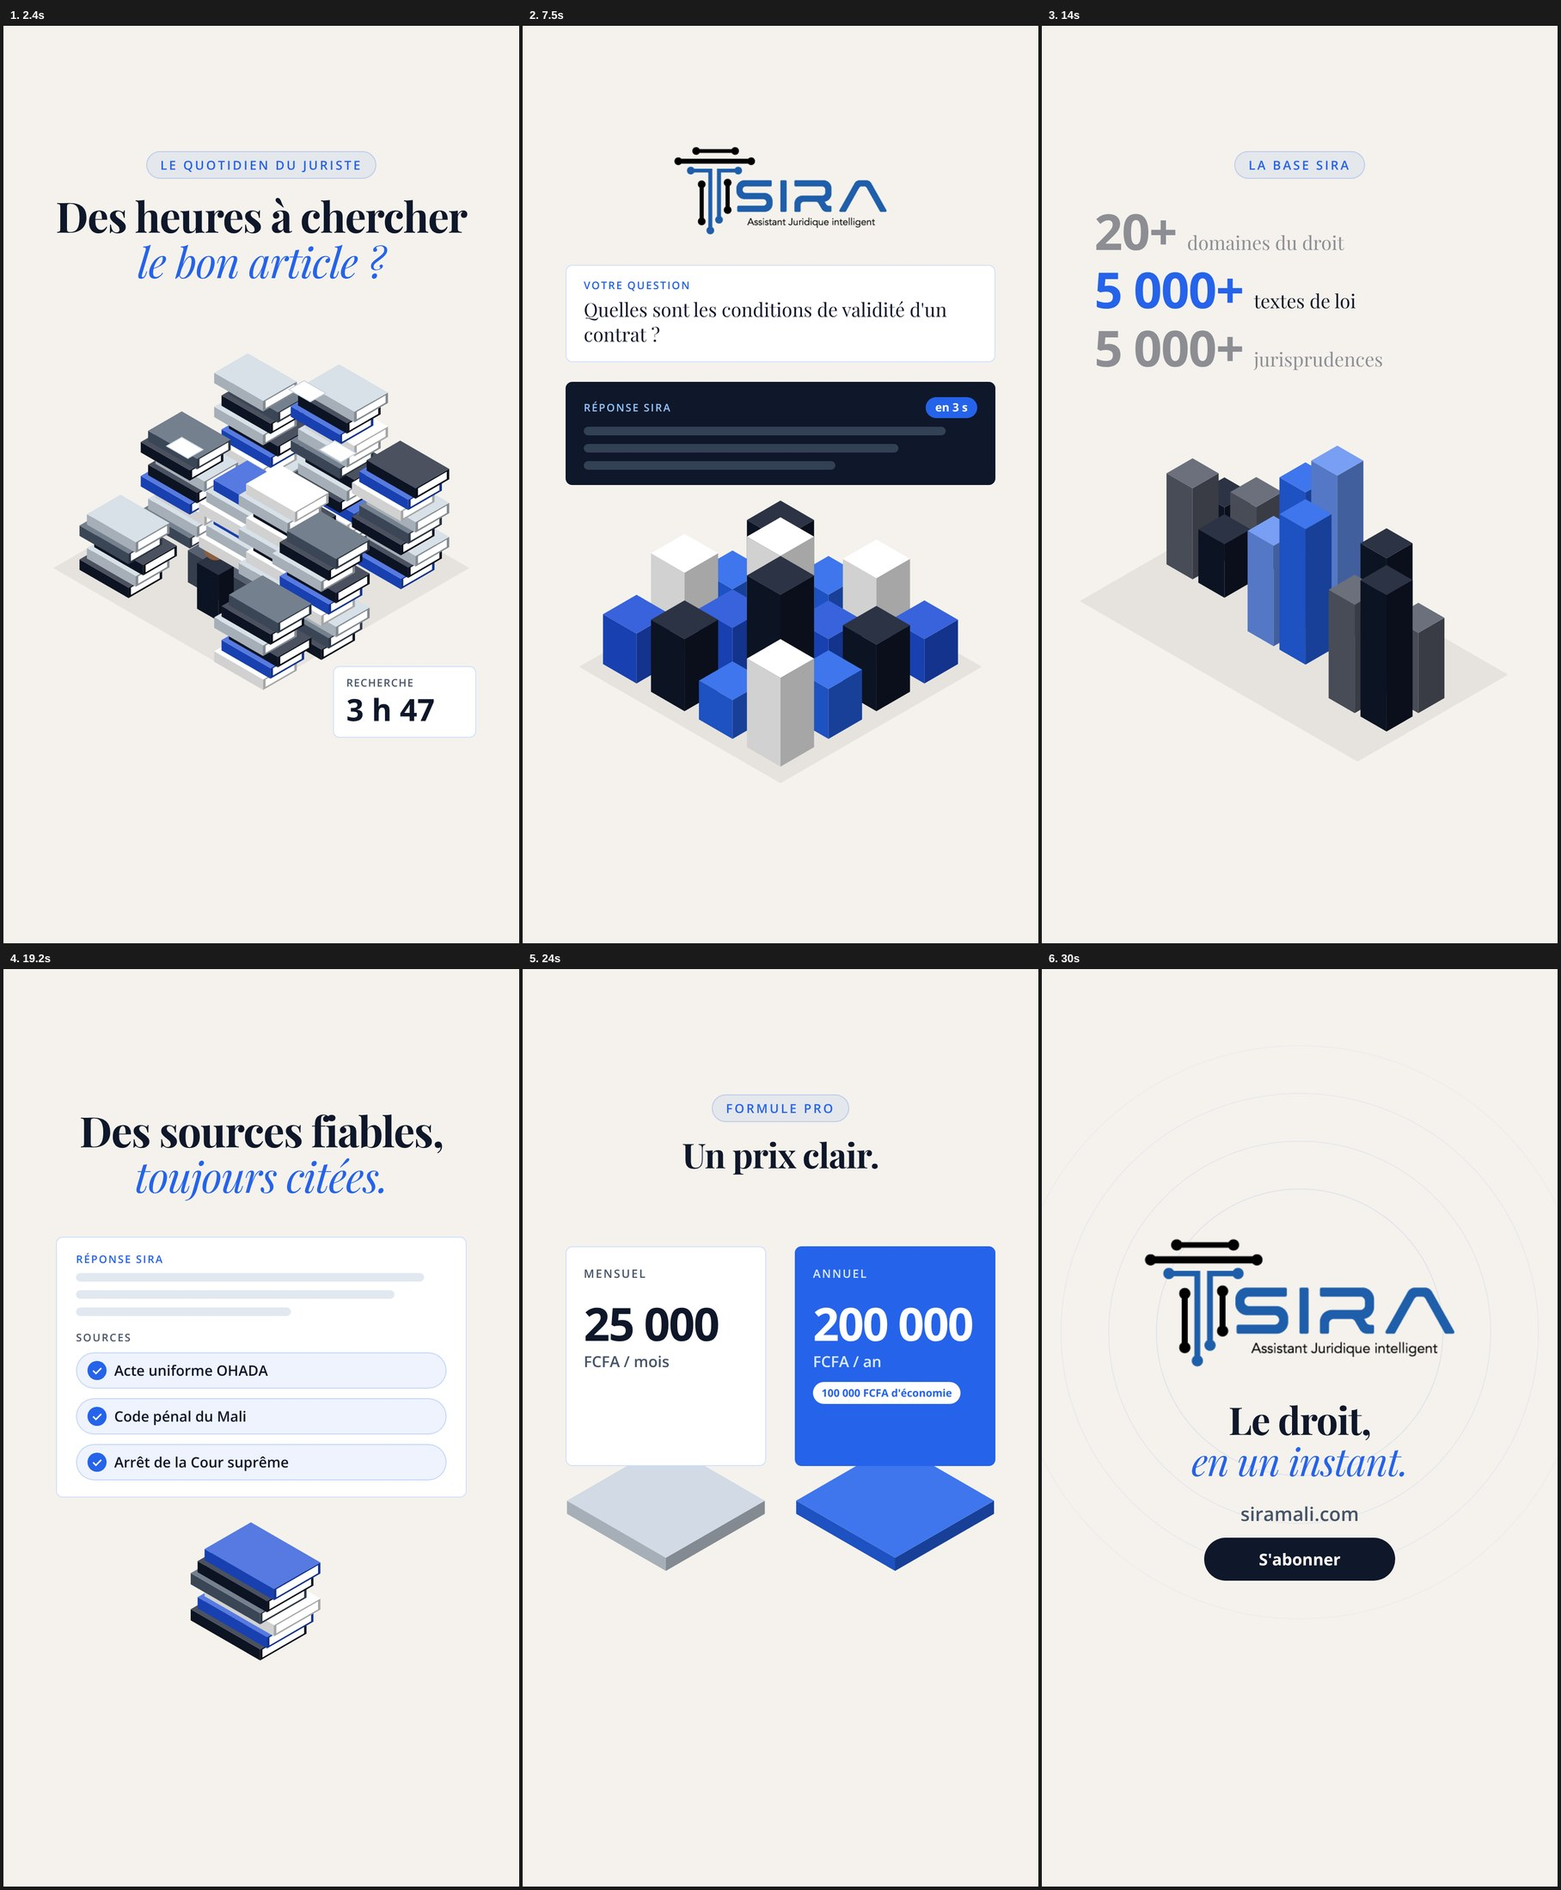
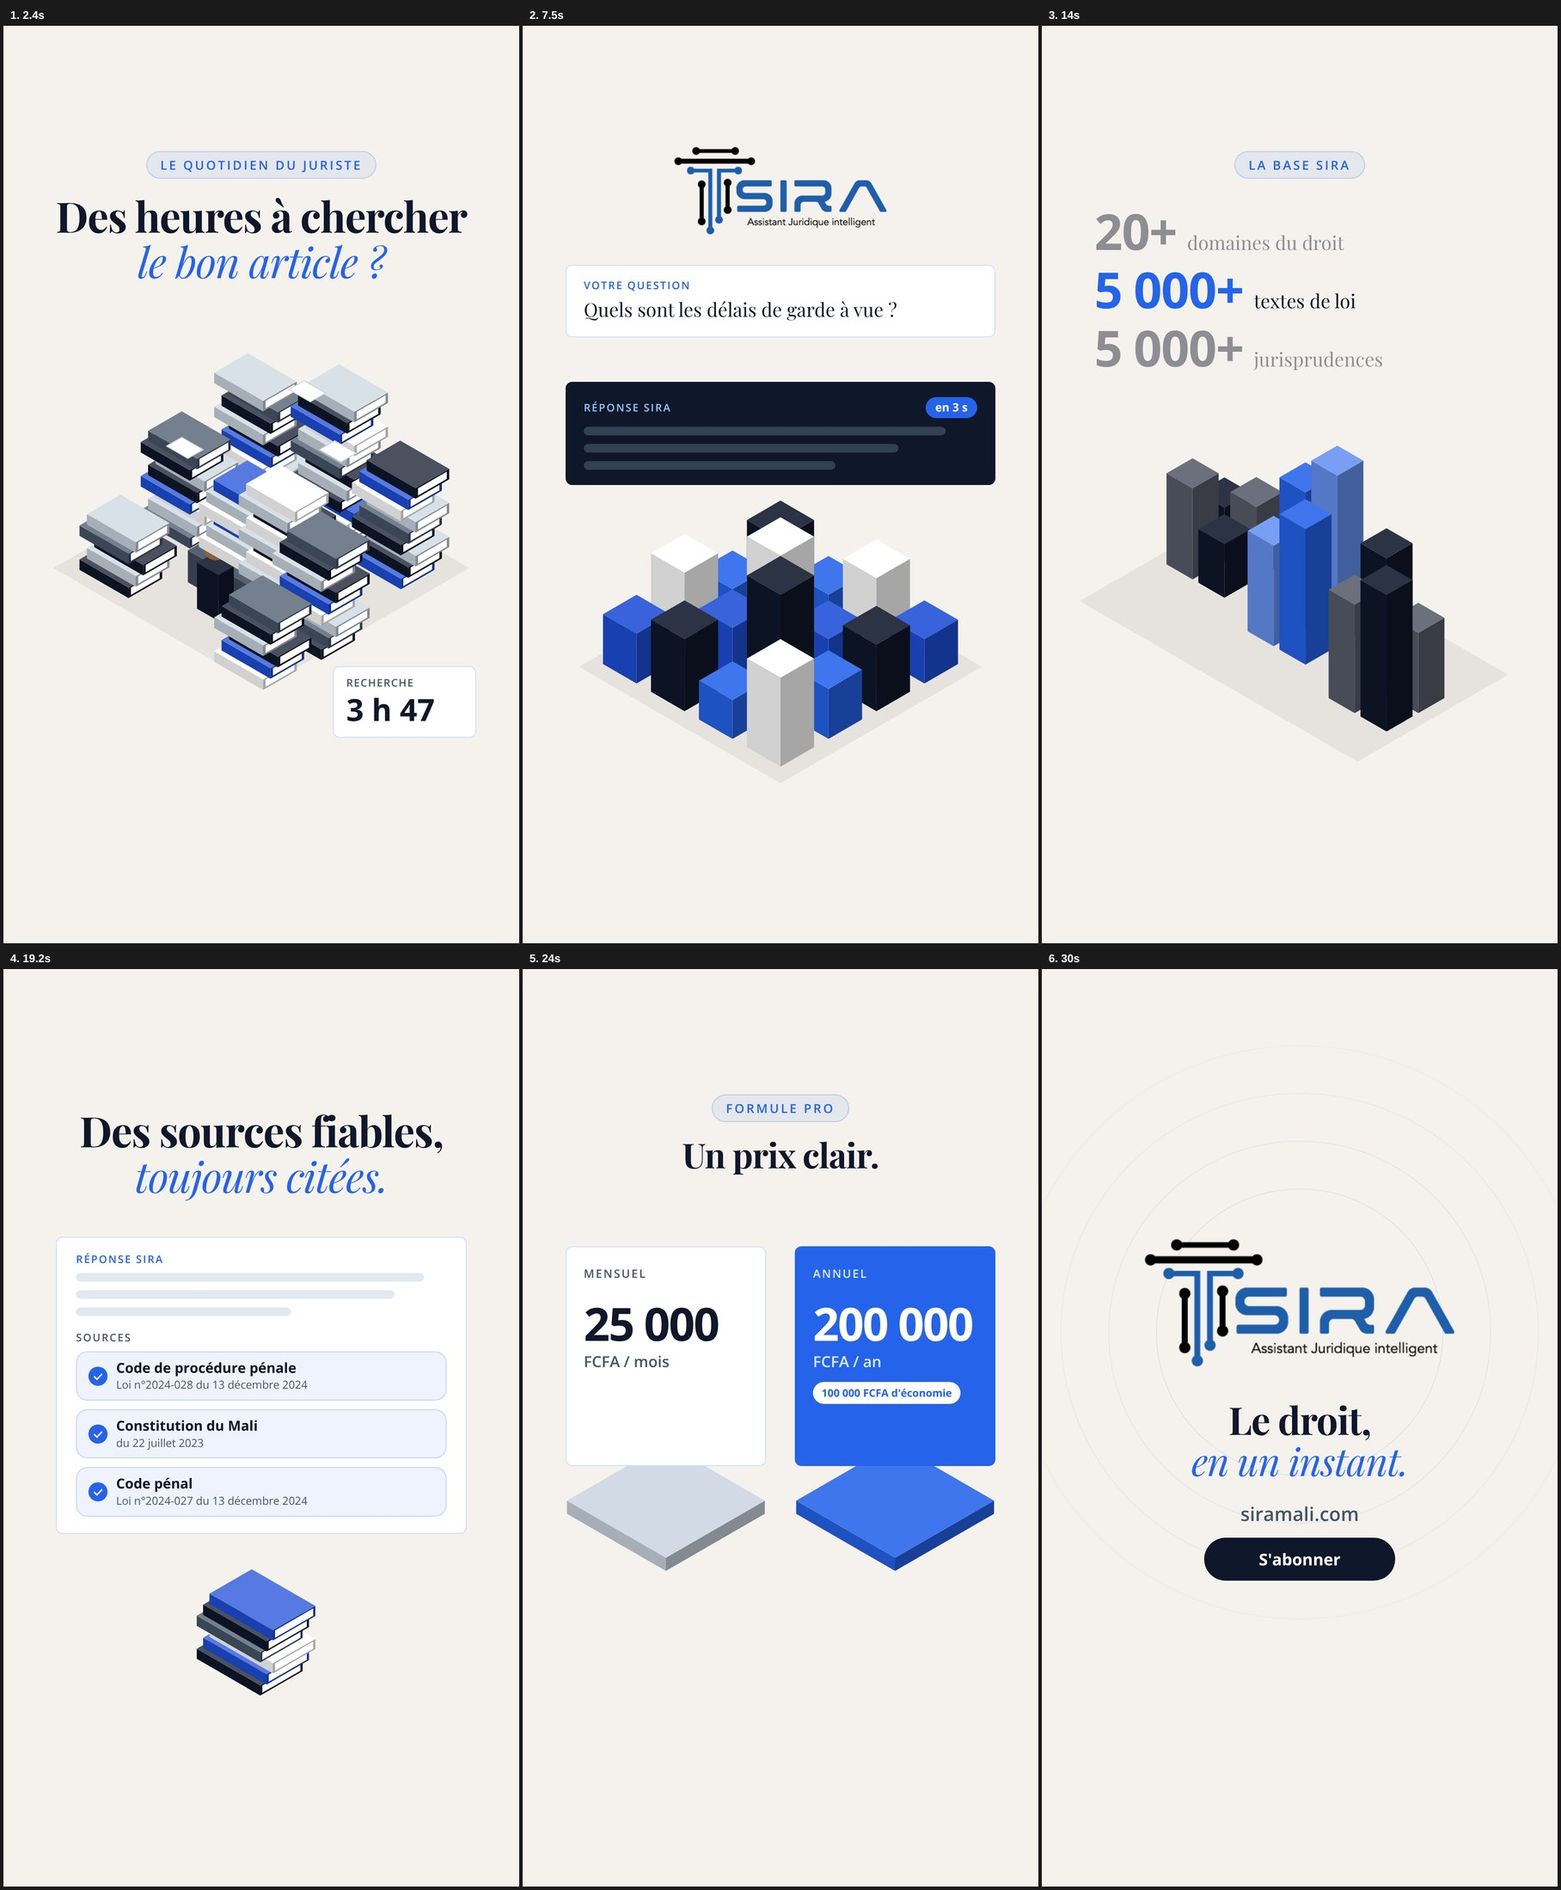
Vidéo SIRA : question garde à vue et sources réelles (plans 02 et 04)
Claude-Session: https://claude.ai/code/session_01MDgrk3vJ4pFzp3No1DkxgC

Changed region(s): [[0.0308, 0.7116, 0.2159, 0.8972], [0.4009, 0.1547, 0.5859, 0.1856]]

diff --git a/videos/sira-promo/compositions/frames/04-sources.html b/videos/sira-promo/compositions/frames/04-sources.html
@@ -22,30 +22,30 @@
         <div class="bg clip" data-start="0" data-duration="3.2"></div>
         <div class="layer clip" data-start="0" data-duration="3.2">
 
-          <svg class="art" viewBox="0 0 1080 1920" xmlns="http://www.w3.org/2000/svg"><polygon points="392.1,1363.0 537.6,1447.0 537.6,1423.8 392.1,1339.8" fill="#0C1322"/>
-<polygon points="634.6,1391.0 537.6,1447.0 537.6,1423.8 634.6,1367.8" fill="#0A0F1B"/>
-<polygon points="489.1,1283.8 634.6,1367.8 537.6,1423.8 392.1,1339.8" fill="#4B515F"/>
-<polygon points="629.7,1390.3 542.4,1440.7 542.4,1424.0 629.7,1373.6" fill="#FFFFFF"/>
-<polygon points="406.6,1337.8 552.1,1421.8 552.1,1398.6 406.6,1314.6" fill="#1840B1"/>
-<polygon points="649.1,1365.8 552.1,1421.8 552.1,1398.6 649.1,1342.6" fill="#13338C"/>
-<polygon points="503.6,1258.6 649.1,1342.6 552.1,1398.6 406.6,1314.6" fill="#567AE2"/>
-<polygon points="644.3,1365.1 557.0,1415.5 557.0,1398.8 644.3,1348.4" fill="#FFFFFF"/>
-<polygon points="421.2,1312.6 566.7,1396.6 566.7,1373.4 421.2,1289.4" fill="#D1D1D1"/>
-<polygon points="663.7,1340.6 566.7,1396.6 566.7,1373.4 663.7,1317.4" fill="#A6A6A6"/>
-<polygon points="518.2,1233.4 663.7,1317.4 566.7,1373.4 421.2,1289.4" fill="#FFFFFF"/>
-<polygon points="658.8,1339.9 571.5,1390.3 571.5,1373.6 658.8,1323.2" fill="#FFFFFF"/>
-<polygon points="392.1,1287.4 537.6,1371.4 537.6,1348.2 392.1,1264.2" fill="#3A4656"/>
-<polygon points="634.6,1315.4 537.6,1371.4 537.6,1348.2 634.6,1292.2" fill="#2E3744"/>
-<polygon points="489.1,1208.2 634.6,1292.2 537.6,1348.2 392.1,1264.2" fill="#75808E"/>
-<polygon points="629.7,1314.7 542.4,1365.1 542.4,1348.4 629.7,1298.0" fill="#FFFFFF"/>
-<polygon points="406.6,1262.2 552.1,1346.2 552.1,1323.0 406.6,1239.0" fill="#0C1322"/>
-<polygon points="649.1,1290.2 552.1,1346.2 552.1,1323.0 649.1,1267.0" fill="#0A0F1B"/>
-<polygon points="503.6,1183.0 649.1,1267.0 552.1,1323.0 406.6,1239.0" fill="#4B515F"/>
-<polygon points="644.3,1289.5 557.0,1339.9 557.0,1323.2 644.3,1272.8" fill="#FFFFFF"/>
-<polygon points="421.2,1237.0 566.7,1321.0 566.7,1297.8 421.2,1213.8" fill="#1840B1"/>
-<polygon points="663.7,1265.0 566.7,1321.0 566.7,1297.8 663.7,1241.8" fill="#13338C"/>
-<polygon points="518.2,1157.8 663.7,1241.8 566.7,1297.8 421.2,1213.8" fill="#567AE2"/>
-<polygon points="658.8,1264.3 571.5,1314.7 571.5,1298.0 658.8,1247.6" fill="#FFFFFF"/></svg>
+          <svg class="art" viewBox="0 0 1080 1920" xmlns="http://www.w3.org/2000/svg"><polygon points="404.8,1443.6 537.8,1520.4 537.8,1499.2 404.8,1422.4" fill="#0C1322"/>
+<polygon points="626.5,1469.2 537.8,1520.4 537.8,1499.2 626.5,1448.0" fill="#0A0F1B"/>
+<polygon points="493.4,1371.2 626.5,1448.0 537.8,1499.2 404.8,1422.4" fill="#4B515F"/>
+<polygon points="622.0,1468.6 542.2,1514.6 542.2,1499.4 622.0,1453.3" fill="#FFFFFF"/>
+<polygon points="418.1,1420.6 551.1,1497.4 551.1,1476.2 418.1,1399.4" fill="#1840B1"/>
+<polygon points="639.8,1446.2 551.1,1497.4 551.1,1476.2 639.8,1425.0" fill="#13338C"/>
+<polygon points="506.7,1348.2 639.8,1425.0 551.1,1476.2 418.1,1399.4" fill="#567AE2"/>
+<polygon points="635.3,1445.5 555.5,1491.6 555.5,1476.4 635.3,1430.3" fill="#FFFFFF"/>
+<polygon points="431.4,1397.5 564.4,1474.3 564.4,1453.1 431.4,1376.3" fill="#D1D1D1"/>
+<polygon points="653.1,1423.1 564.4,1474.3 564.4,1453.1 653.1,1401.9" fill="#A6A6A6"/>
+<polygon points="520.0,1325.1 653.1,1401.9 564.4,1453.1 431.4,1376.3" fill="#FFFFFF"/>
+<polygon points="648.6,1422.5 568.8,1468.6 568.8,1453.3 648.6,1407.2" fill="#FFFFFF"/>
+<polygon points="404.8,1374.5 537.8,1451.3 537.8,1430.1 404.8,1353.3" fill="#3A4656"/>
+<polygon points="626.5,1400.1 537.8,1451.3 537.8,1430.1 626.5,1378.9" fill="#2E3744"/>
+<polygon points="493.4,1302.1 626.5,1378.9 537.8,1430.1 404.8,1353.3" fill="#75808E"/>
+<polygon points="622.0,1399.4 542.2,1445.5 542.2,1430.3 622.0,1384.2" fill="#FFFFFF"/>
+<polygon points="418.1,1351.4 551.1,1428.2 551.1,1407.0 418.1,1330.2" fill="#0C1322"/>
+<polygon points="639.8,1377.0 551.1,1428.2 551.1,1407.0 639.8,1355.8" fill="#0A0F1B"/>
+<polygon points="506.7,1279.0 639.8,1355.8 551.1,1407.0 418.1,1330.2" fill="#4B515F"/>
+<polygon points="635.3,1376.4 555.5,1422.5 555.5,1407.2 635.3,1361.2" fill="#FFFFFF"/>
+<polygon points="431.4,1328.4 564.4,1405.2 564.4,1384.0 431.4,1307.2" fill="#1840B1"/>
+<polygon points="653.1,1354.0 564.4,1405.2 564.4,1384.0 653.1,1332.8" fill="#13338C"/>
+<polygon points="520.0,1256.0 653.1,1332.8 564.4,1384.0 431.4,1307.2" fill="#567AE2"/>
+<polygon points="648.6,1353.4 568.8,1399.4 568.8,1384.2 648.6,1338.1" fill="#FFFFFF"/></svg>
           <div class="h1" style="top:290px">Des sources fiables,<br/><em>toujours citées.</em></div>
           <div class="card" style="left:110px;top:560px;width:860px;padding:34px 40px;">
             <div style="font:600 22px/1 'Open Sans';color:#2563EB;letter-spacing:.12em;text-transform:uppercase">Réponse SIRA</div>
@@ -53,15 +53,15 @@
             <div class="line" style="width:86%"></div>
             <div class="line" style="width:58%"></div>
             <div style="font:600 22px/1 'Open Sans';color:#475569;letter-spacing:.12em;text-transform:uppercase;margin-top:34px">Sources</div>
-            <div style="display:flex;align-items:center;gap:16px;margin-top:20px;padding:16px 22px;border-radius:100px;background:rgba(37,99,235,0.08);border:2px solid rgba(37,99,235,0.2)">
-              <div style="width:40px;height:40px;border-radius:50%;background:#2563EB;color:#FFFFFF;font:700 26px/40px 'Open Sans';text-align:center">✓</div>
-              <div style="font:600 30px/1 'Open Sans';color:#0F172A">Acte uniforme OHADA</div>
-            </div><div style="display:flex;align-items:center;gap:16px;margin-top:20px;padding:16px 22px;border-radius:100px;background:rgba(37,99,235,0.08);border:2px solid rgba(37,99,235,0.2)">
-              <div style="width:40px;height:40px;border-radius:50%;background:#2563EB;color:#FFFFFF;font:700 26px/40px 'Open Sans';text-align:center">✓</div>
-              <div style="font:600 30px/1 'Open Sans';color:#0F172A">Code pénal du Mali</div>
-            </div><div style="display:flex;align-items:center;gap:16px;margin-top:20px;padding:16px 22px;border-radius:100px;background:rgba(37,99,235,0.08);border:2px solid rgba(37,99,235,0.2)">
-              <div style="width:40px;height:40px;border-radius:50%;background:#2563EB;color:#FFFFFF;font:700 26px/40px 'Open Sans';text-align:center">✓</div>
-              <div style="font:600 30px/1 'Open Sans';color:#0F172A">Arrêt de la Cour suprême</div>
+            <div style="display:flex;align-items:center;gap:18px;margin-top:18px;padding:16px 24px;border-radius:24px;background:rgba(37,99,235,0.08);border:2px solid rgba(37,99,235,0.2)">
+              <div style="flex:none;width:40px;height:40px;border-radius:50%;background:#2563EB;color:#FFFFFF;font:700 26px/40px 'Open Sans';text-align:center">✓</div>
+              <div><div style="font:700 29px/1.15 'Open Sans';color:#0F172A">Code de procédure pénale</div><div style="font:400 23px/1.3 'Open Sans';color:#475569;margin-top:4px">Loi n°2024-028 du 13 décembre 2024</div></div>
+            </div><div style="display:flex;align-items:center;gap:18px;margin-top:18px;padding:16px 24px;border-radius:24px;background:rgba(37,99,235,0.08);border:2px solid rgba(37,99,235,0.2)">
+              <div style="flex:none;width:40px;height:40px;border-radius:50%;background:#2563EB;color:#FFFFFF;font:700 26px/40px 'Open Sans';text-align:center">✓</div>
+              <div><div style="font:700 29px/1.15 'Open Sans';color:#0F172A">Constitution du Mali</div><div style="font:400 23px/1.3 'Open Sans';color:#475569;margin-top:4px">du 22 juillet 2023</div></div>
+            </div><div style="display:flex;align-items:center;gap:18px;margin-top:18px;padding:16px 24px;border-radius:24px;background:rgba(37,99,235,0.08);border:2px solid rgba(37,99,235,0.2)">
+              <div style="flex:none;width:40px;height:40px;border-radius:50%;background:#2563EB;color:#FFFFFF;font:700 26px/40px 'Open Sans';text-align:center">✓</div>
+              <div><div style="font:700 29px/1.15 'Open Sans';color:#0F172A">Code pénal</div><div style="font:400 23px/1.3 'Open Sans';color:#475569;margin-top:4px">Loi n°2024-027 du 13 décembre 2024</div></div>
             </div>
           </div>
         </div>

diff --git a/videos/sira-promo/boards/storyboard.html b/videos/sira-promo/boards/storyboard.html
@@ -7,9 +7,9 @@
 <div class="grid"><section class="act">Acte 1 : la douleur</section>
 <div class="frame"><img src="stills/frame-00-at-2.4s.png" alt="" /><div class="title">01: Enseveli sous les textes</div><div class="time">0,0 à 4,0 s</div><p class="words">Un juriste disparaît sous des piles de codes et d'arrêts ; le compteur de recherche affiche 3 h 47.</p></div>
 <section class="act">Acte 2 : la solution</section>
-<div class="frame"><img src="stills/frame-01-at-7.5s.png" alt="" /><div class="title">02: SIRA range tout</div><div class="time">4,0 à 10,2 s</div><p class="words">Le logo se pose, la question reçoit sa réponse « en 3 s », les piles deviennent une ville ordonnée.</p></div>
+<div class="frame"><img src="stills/frame-01-at-7.5s.png" alt="" /><div class="title">02: SIRA range tout</div><div class="time">4,0 à 10,2 s</div><p class="words">Le logo se pose, la question « Quels sont les délais de garde à vue ? » reçoit sa réponse « en 3 s », les piles deviennent une ville ordonnée.</p></div>
 <div class="frame"><img src="stills/frame-02-at-14s.png" alt="" /><div class="title">03: La ville du droit en chiffres</div><div class="time">10,2 à 17,4 s</div><p class="words">Trois quartiers, trois compteurs ; chacun s'allume à son tour (ici, le 2e : 5 000+ textes de loi).</p></div>
-<div class="frame"><img src="stills/frame-03-at-19.2s.png" alt="" /><div class="title">04: Des sources citées</div><div class="time">17,4 à 20,6 s</div><p class="words">La carte réponse affiche ses sources, cochées une à une.</p></div>
+<div class="frame"><img src="stills/frame-03-at-19.2s.png" alt="" /><div class="title">04: Des sources citées</div><div class="time">17,4 à 20,6 s</div><p class="words">La carte réponse affiche ses sources, cochées une à une : Code de procédure pénale (Loi n°2024-028), Constitution du 22 juillet 2023, Code pénal (Loi n°2024-027).</p></div>
 <section class="act">Acte 3 : l'offre</section>
 <div class="frame"><img src="stills/frame-04-at-24s.png" alt="" /><div class="title">05: Formule Pro</div><div class="time">20,6 à 26,6 s</div><p class="words">Mensuel 25 000 FCFA, annuel 200 000 FCFA avec 100 000 FCFA d'économie.</p></div>
 <div class="frame"><img src="stills/frame-05-at-30s.png" alt="" /><div class="title">06: Le droit, en un instant</div><div class="time">26,6 à 32,0 s</div><p class="words">Signature SIRA, siramali.com et bouton « S'abonner ».</p></div>

diff --git a/videos/sira-promo/compositions/frames/02-sira-range.html b/videos/sira-promo/compositions/frames/02-sira-range.html
@@ -74,7 +74,7 @@
           <img src="assets/logo_sira.png" style="position:absolute;left:300px;top:250px;width:480px;" alt="SIRA" />
           <div class="card" style="left:90px;top:500px;width:900px;padding:30px 36px;">
             <div style="font:600 22px/1 'Open Sans';color:#2563EB;letter-spacing:.12em;text-transform:uppercase">Votre question</div>
-            <div style="font:400 40px/1.3 'Playfair Display';color:#0F172A;margin-top:14px">Quelles sont les conditions de validité d'un contrat&nbsp;?</div>
+            <div style="font:400 40px/1.3 'Playfair Display';color:#0F172A;margin-top:14px">Quels sont les délais de garde à vue&nbsp;?</div>
           </div>
           <div class="card" style="left:90px;top:745px;width:900px;padding:30px 36px;background:#0F172A;border-color:#0F172A;">
             <div style="display:flex;justify-content:space-between;align-items:center">

diff --git a/videos/sira-promo/tools/sketch.py b/videos/sira-promo/tools/sketch.py
@@ -164,7 +164,7 @@ def f02():
           <img src="assets/logo_sira.png" style="position:absolute;left:300px;top:250px;width:480px;" alt="SIRA" />
           <div class="card" style="left:90px;top:500px;width:900px;padding:30px 36px;">
             <div style="font:600 22px/1 'Open Sans';color:{BLUE};letter-spacing:.12em;text-transform:uppercase">Votre question</div>
-            <div style="font:400 40px/1.3 'Playfair Display';color:{INK};margin-top:14px">Quelles sont les conditions de validité d'un contrat&nbsp;?</div>
+            <div style="font:400 40px/1.3 'Playfair Display';color:{INK};margin-top:14px">Quels sont les délais de garde à vue&nbsp;?</div>
           </div>
           <div class="card" style="left:90px;top:745px;width:900px;padding:30px 36px;background:{INK};border-color:{INK};">
             <div style="display:flex;justify-content:space-between;align-items:center">
@@ -204,15 +204,17 @@ def f03():
 
 # ── Plan 4 : des sources citées ──────────────────────────────────────────────
 def f04():
-    iso = Iso(540, 1370, 70)
+    iso = Iso(540, 1450, 64)
     iso.book_stack(-1.2, -0.6, 0, 6, [INK, BLUE_D, WHITE, SLATE], w=2.4, d=1.6, t=0.36)
-    chips = ["Acte uniforme OHADA", "Code pénal du Mali", "Arrêt de la Cour suprême"]
+    chips = [("Code de procédure pénale", "Loi n°2024-028 du 13 décembre 2024"),
+             ("Constitution du Mali", "du 22 juillet 2023"),
+             ("Code pénal", "Loi n°2024-027 du 13 décembre 2024")]
     chip_html = "".join(
-        f"""<div style="display:flex;align-items:center;gap:16px;margin-top:20px;padding:16px 22px;border-radius:100px;background:rgba(37,99,235,0.08);border:2px solid rgba(37,99,235,0.2)">
-              <div style="width:40px;height:40px;border-radius:50%;background:{BLUE};color:{WHITE};font:700 26px/40px 'Open Sans';text-align:center">✓</div>
-              <div style="font:600 30px/1 'Open Sans';color:{INK}">{c}</div>
+        f"""<div style="display:flex;align-items:center;gap:18px;margin-top:18px;padding:16px 24px;border-radius:24px;background:rgba(37,99,235,0.08);border:2px solid rgba(37,99,235,0.2)">
+              <div style="flex:none;width:40px;height:40px;border-radius:50%;background:{BLUE};color:{WHITE};font:700 26px/40px 'Open Sans';text-align:center">✓</div>
+              <div><div style="font:700 29px/1.15 'Open Sans';color:{INK}">{t}</div><div style="font:400 23px/1.3 'Open Sans';color:{SLATE};margin-top:4px">{r}</div></div>
             </div>"""
-        for c in chips)
+        for t, r in chips)
     body = f"""
           {svg_wrap(iso.svg())}
           <div class="h1" style="top:290px">Des sources fiables,<br/><em>toujours citées.</em></div>

diff --git a/videos/sira-promo/STORYBOARD.md b/videos/sira-promo/STORYBOARD.md
@@ -30,7 +30,7 @@ keyMessage: chercher le bon texte coûte des heures.
 
 ## Frame 2 — SIRA range tout
 
-- scene: Le logo SIRA se pose, les piles se rangent d'un coup en une ville isométrique ordonnée ; une question tapée reçoit sa réponse en quelques secondes
+- scene: Le logo SIRA se pose, les piles se rangent d'un coup en une ville isométrique ordonnée ; la question « Quels sont les délais de garde à vue ? » reçoit sa réponse en quelques secondes
 - voiceover: "Avec SIRA, l'assistant juridique intelligent, la réponse arrive en quelques secondes."
 - duration: 5.5s
 - transition_in: zoom-through
@@ -64,7 +64,7 @@ keyMessage: tout le droit utile est déjà dans SIRA.
 
 ## Frame 4 — Des sources citées
 
-- scene: Une carte réponse isométrique se pose ; sous le texte, des pastilles de références (article, arrêt) s'allument une à une et se cochent
+- scene: Une carte réponse isométrique se pose ; sous le texte, trois pastilles de sources s'allument une à une et se cochent : Code de procédure pénale (Loi n°2024-028 du 13 décembre 2024), Constitution du 22 juillet 2023, Code pénal (Loi n°2024-027 du 13 décembre 2024)
 - voiceover: "Des sources fiables, toujours citées."
 - duration: 3.5s
 - transition_in: crossfade
